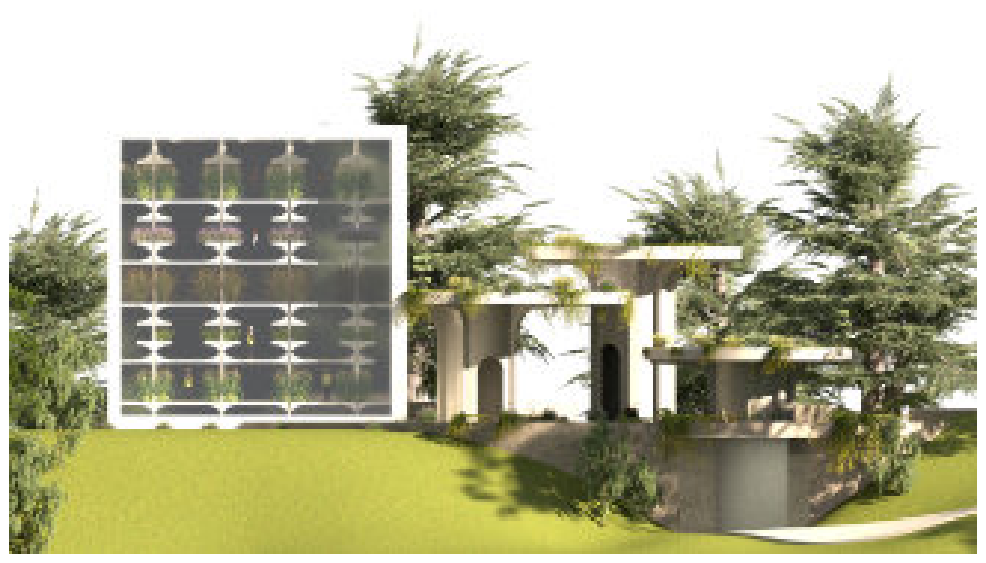
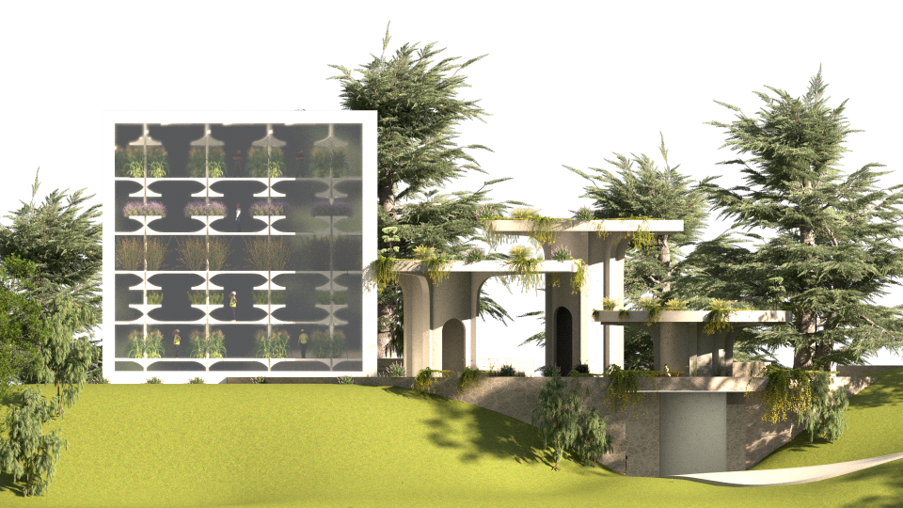
Reformat Vertical Farm page to match the other projects
- Interior render as the hero above the description
- Rendering section with the exterior view
- New Lighting Analysis section with four daylight illuminance studies
- Corrected captions (previous ones described the wrong images)

diff --git a/projects/vertical-farm.html b/projects/vertical-farm.html
@@ -28,25 +28,48 @@
       <div><span>Professor</span>Danielle Wilkens</div>
       <div><span>Location</span>Georgia Tech, Atlanta, Georgia</div>
     </div>
+  </div>
+
+  <div class="project-gallery gallery-hero">
+    <figure>
+      <img src="../images/projects/vertical-farm/02.png" alt="Interior growing floor with crops in raised planters">
+      <figcaption>Interior growing floor with crops in raised planters</figcaption>
+    </figure>
+  </div>
+
+  <div class="project-intro">
     <p class="project-desc">This project proposed a conversion of a visitor parking lot on the Georgia Tech campus into a vertically oriented urban farm. The building serves as a food distribution center for the community, while creating a walkable, accessible space for education, recreation, and social interaction. The design maximizes crop yield within a dense urban campus, and integrates energy-efficient strategies, such as solar orientation, passive heating/cooling, and material selection to optimize both building performance and agricultural output. Ultimately, the project serves as a model for sustainable urban development, showing how existing campus infrastructure can be reimagined to tackle food access, climate resilience, and land scarcity.</p>
   </div>
 
-  <div class="project-gallery">
+  <section class="gallery-section">
+    <h2>Rendering</h2>
+  </section>
+  <div class="project-gallery gallery-lead">
     <figure>
-      <img src="../images/projects/vertical-farm/02.png" alt="Vertical Farm front rendered view">
-      <figcaption>Vertical Farm front rendered view</figcaption>
+      <img src="../images/projects/vertical-farm/01.png" alt="Exterior view of the farm facade and landscaped green roof" loading="lazy">
+      <figcaption>Exterior view of the farm facade and landscaped green roof</figcaption>
     </figure>
-    <figure>
-      <img src="../images/projects/vertical-farm/01.png" alt="Vertical Farm site plan with proposed dock and path addition">
-      <figcaption>Vertical Farm site plan with proposed dock and path addition</figcaption>
+  </div>
+
+  <section class="gallery-section">
+    <h2>Lighting Analysis</h2>
+  </section>
+  <div class="project-gallery gallery-quad">
+    <figure class="fit">
+      <img src="../images/projects/vertical-farm/lighting-analysis/Picture10.png" alt="Daylight illuminance by floor, June 21 at 6 am, clear sky" loading="lazy">
+      <figcaption>Daylight illuminance by floor, June 21 at 6 am, clear sky</figcaption>
     </figure>
-    <figure>
-      <img src="../images/projects/vertical-farm/04.png" alt="Vertical Farm rendered view">
-      <figcaption>Vertical Farm rendered view</figcaption>
+    <figure class="fit">
+      <img src="../images/projects/vertical-farm/lighting-analysis/Picture12.png" alt="Daylight illuminance by floor, June 21 at 6 am, from the south" loading="lazy">
+      <figcaption>Daylight illuminance by floor, June 21 at 6 am, from the south</figcaption>
     </figure>
-    <figure>
-      <img src="../images/projects/vertical-farm/03.png" alt="Vertical Farm site plan detail">
-      <figcaption>Vertical Farm site plan detail</figcaption>
+    <figure class="fit">
+      <img src="../images/projects/vertical-farm/lighting-analysis/Picture11.png" alt="Daylight illuminance by floor, December 21 at 8 am, from the north" loading="lazy">
+      <figcaption>Daylight illuminance by floor, December 21 at 8 am, from the north</figcaption>
+    </figure>
+    <figure class="fit">
+      <img src="../images/projects/vertical-farm/lighting-analysis/Picture9.png" alt="Daylight illuminance by floor, December 23 at 9 am" loading="lazy">
+      <figcaption>Daylight illuminance by floor, December 23 at 9 am</figcaption>
     </figure>
   </div>
 
